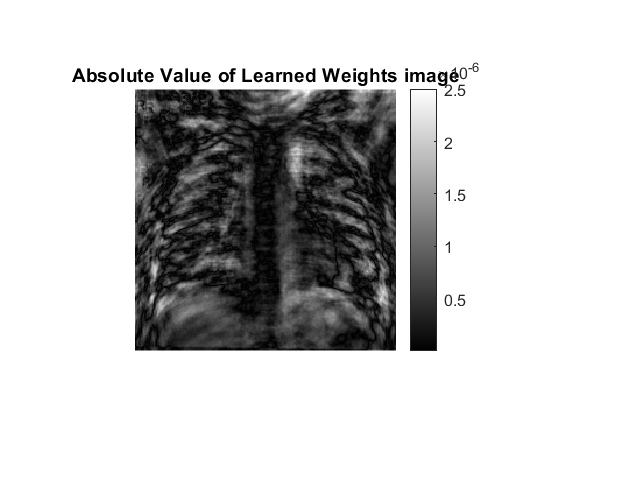
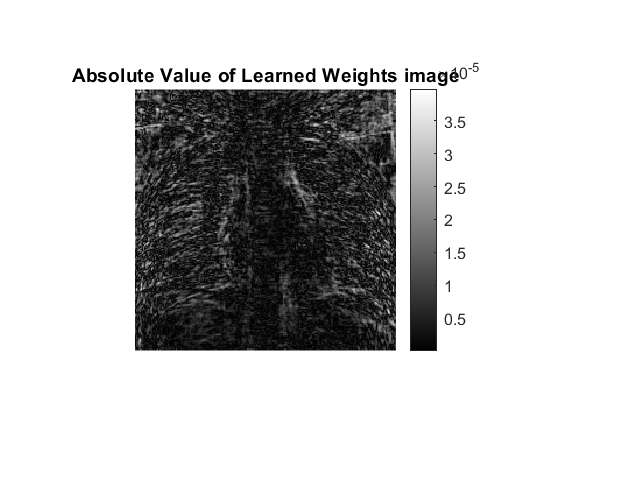
changed fit.m

diff --git a/Exam project/part1.m b/Exam project/part1.m
@@ -1,81 +1,11 @@
 
 clear; clc; close all;
 
-%%
-% Specify the folder where the files live.
 TrainFolder = "C:\Users\liou-\OneDrive - Danmarks Tekniske Universitet\C. Elektroteknologi - Bachelor\6. semester\02526 Mathematical Modeling\-02526-Mathematical-Modeling\Exam project\data\Train";
 TestFolder = "C:\Users\liou-\OneDrive - Danmarks Tekniske Universitet\C. Elektroteknologi - Bachelor\6. semester\02526 Mathematical Modeling\-02526-Mathematical-Modeling\Exam project\data\Test";
 
-% Check to make sure that folder actually exists.  Warn user if it doesn't.
-if ~isfolder(TrainFolder)
-    errorMessage = sprintf('Error: The following folder does not exist:\n%s\nPlease specify a new folder.', TrainFolder);
-    uiwait(warndlg(errorMessage));
-    TrainFolder = uigetdir(); % Ask for a new one.
-    if TrainFolder == 0
-        % User clicked Cancel
-        return;
-    end
-end
-
-
-fileSize = 400;
-% A = cell(224*224,3);
-ArrayTrain = zeros(fileSize,224*224);
-ArrayTest  = zeros(fileSize,224*224);
-hasPnemoniaTrain = zeros(1,fileSize);
-hasPnemoniaTest = zeros(1,fileSize);
-masterchief1 = zeros(fileSize,3);
-
-
-% Get a list of all files in the folder with the desired file name pattern.
-filePatternTest = fullfile(TestFolder, '*.png'); % Change to whatever pattern you need.
-theFilesTest = dir(filePatternTest);
-
-filePatternTrain = fullfile(TrainFolder, '*.png'); % Change to whatever pattern you need.
-theFilesTrain = dir(filePatternTrain);
-
-
-ArrayTrain = zeros(224*224,fileSize);
-ArrayTest = zeros(224*224,fileSize);
-hasPnemoniaTrain = zeros(1,fileSize);
-hasPnemoniaTest = zeros(1,fileSize);
-resultTable = zeros(fileSize,5);
-
-
-for k = 1 : fileSize
-    baseFileNameTrain = theFilesTrain(k).name;
-    fullFileNameTrain = fullfile(theFilesTrain(k).folder, baseFileNameTrain);
-    imageArrayTrain = imread(fullFileNameTrain);
-    imageArrayTrain = reshape(imageArrayTrain,1,[]);
-    ArrayTrain(:,k) = imageArrayTrain;
-    if (contains(fullFileNameTrain,"positive"))
-        hasPnemoniaTrain(:,k) = 1;
-    else
-        hasPnemoniaTrain(:,k) = 0;
-    end
-
-    baseFileNameTest = theFilesTest(k).name;
-    fullFileNameTest = fullfile(theFilesTest(k).folder,baseFileNameTest);
-    imageArrayTest = imread(fullFileNameTest);
-    imageArrayTest = reshape(imageArrayTest,[],1);
-    ArrayTest(:,k) = imageArrayTest;
-    if (contains(fullFileNameTest,"positive"))
-        hasPnemoniaTest(:,k) = 1;
-    else
-        hasPnemoniaTest(:,k) = 0;
-    end
-
-end
-
-Mdl = fitclinear(ArrayTrain',hasPnemoniaTrain, ...
-    "ObservationsIn","rows", ...
-    "Regularization","ridge", ...
-    "Lambda",'auto', ...
-    "Bias", 0, ...
-    "Learner","logistic");
-
-[Label, Score] = predict(Mdl,ArrayTest');
-hasPnemoniaTest = hasPnemoniaTest';
+[Mdl, Score] = fit(TrainFolder);
+[Label, Score, hasPnemoniaTest] = modelPredict(TestFolder, Mdl);
 
 
 resultTable(:,1) = Label;
@@ -83,7 +13,7 @@ resultTable(:,2) = hasPnemoniaTest;
 resultTable(:,4) = Score(:,1);
 resultTable(:,5) = Score(:,2);
 
-for k = 1:fileSize
+for k = 1:numel(hasPnemoniaTest)
     if resultTable(k,1) == resultTable(k,2)
         resultTable(k,3) = 1;
     else
@@ -94,10 +24,9 @@ end
 fprintf('How many positive images:')
 disp(sum(resultTable(:,3)));
 fprintf('How many percentages of total image is true:')
-disp((sum(resultTable(:,3))/fileSize)*100);
+disp((sum(resultTable(:,3))/numel(hasPnemoniaTest))*100);
 
 Beta = Mdl.Beta;
-
 betaim = reshape(Beta,224,224);
 betaim = abs(betaim);
 

diff --git a/Exam project/modelPredict.m b/Exam project/modelPredict.m
@@ -1,0 +1,59 @@
+function [label, score, hasPnemoniaTrain] = modelPredict(TrainFolder, Mdl)
+
+if ~isfolder(TrainFolder)
+    errorMessage = sprintf('Error: The following folder does not exist:\n%s\nPlease specify a new folder.', TrainFolder);
+    uiwait(warndlg(errorMessage));
+    TrainFolder = uigetdir(); % Ask for a new one.
+    if TrainFolder == 0
+        % User clicked Cancel
+        return;
+    end
+end
+
+% Get all PNG files from the folder
+extracted_Trained = fullfile(TrainFolder, '*.png');
+theFiles = dir(extracted_Trained);
+
+% Check if there are any PNG files
+if isempty(theFiles)
+    error('No PNG files found in the selected folder.');
+end
+
+% Initialize a cell array to hold the images
+image_Array = cell(1, numel(theFiles));
+image_cells_filtered = cell(1,numel(theFiles));
+hasPnemoniaTrain = zeros(1,numel(theFiles))';
+
+kernel = fspecial("gaussian",4,.5);
+
+% Read each image
+for k = 1:numel(theFiles)
+    baseFileName = theFiles(k).name;
+    fullFileName = fullfile(theFiles(k).folder, baseFileName);
+    image_Array{k} = imread(fullFileName);
+    %image_cells_filtered{k} = imfilter(image_Array{k},kernel);
+    
+    [M, theta] = imgradient(image_Array{k});
+
+    image_cells_filtered{k} = M;
+%     
+%     figure('Name', 'mat2gray')
+%     imshow(mat2gray(M))
+   
+    if (contains(baseFileName,"positive"))
+        % fprintf(1, 'Now reading %s\n', fullFileName);
+        hasPnemoniaTrain(k) = 1;
+    else
+        hasPnemoniaTrain(k) = 0;
+    end
+end
+ALL_ARRAY = zeros(length(image_cells_filtered{1})^2,length(image_cells_filtered));
+% creates cells with 1-column vectors
+for k = 1:numel(image_cells_filtered) 
+    image_cells_filtered{k} = reshape(image_cells_filtered{k},[],1);
+    ALL_ARRAY(:,k) = image_cells_filtered{k} ;
+end
+
+[label, score] = predict(Mdl, ALL_ARRAY');
+
+end 

diff --git a/Exam project/fit.m b/Exam project/fit.m
@@ -1,0 +1,45 @@
+
+function [Mdl, fitinfo] = fit(TrainFolder)
+
+filePatternTest = fullfile(TrainFolder, '*.png');
+theFiles = dir(filePatternTest);
+
+image_Array = cell(1, numel(theFiles));
+image_cells_filtered = cell(1,numel(theFiles));
+hasPnemoniaTrain = zeros(1,numel(theFiles))';
+
+% Read each image
+for k = 1:numel(theFiles)
+    baseFileName = theFiles(k).name;
+    fullFileName = fullfile(theFiles(k).folder, baseFileName);
+    image_Array{k} = imread(fullFileName);
+
+    [M, theta] = imgradient(image_Array{k});
+
+    image_cells_filtered{k} = M;
+
+    % figure('Name', 'mat2gray')
+    % imshow(mat2gray(M))
+
+    if (contains(baseFileName,"positive"))
+        % fprintf(1, 'Now reading %s\n', fullFileName);
+        hasPnemoniaTrain(k) = 1;
+    else
+        hasPnemoniaTrain(k) = 0;
+    end
+
+end
+
+ALL_ARRAY = zeros(length(image_cells_filtered{1})^2,length(image_cells_filtered));
+
+% creates cells with 1-column vectors
+for k = 1:numel(image_cells_filtered)
+
+    image_cells_filtered{k} = reshape(image_cells_filtered{k},[],1);
+    ALL_ARRAY(:,k) = image_cells_filtered{k};
+
+end
+
+[Mdl,fitinfo] = fitclinear(ALL_ARRAY', hasPnemoniaTrain , "ObservationsIn","rows","Regularization",'ridge', 'Lambda','auto');
+
+end
